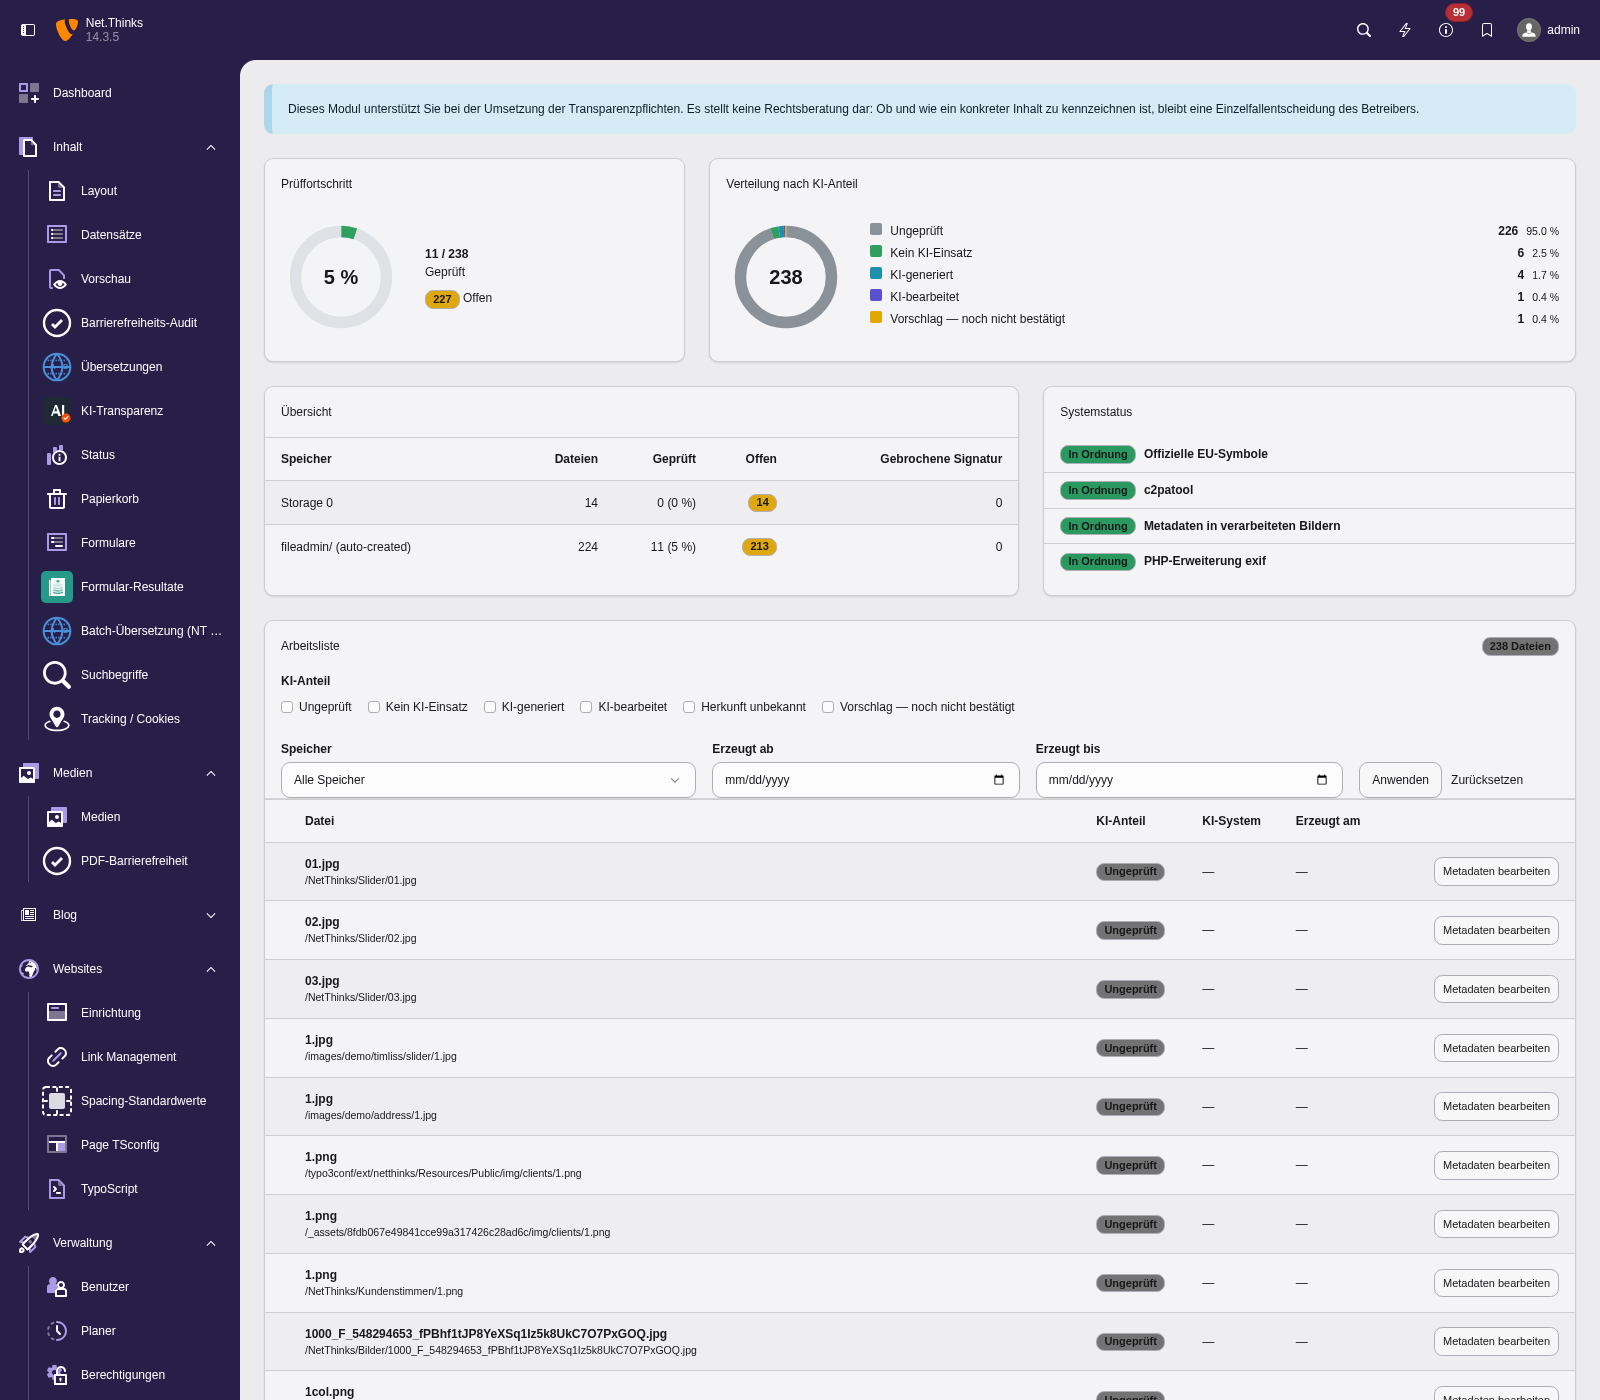
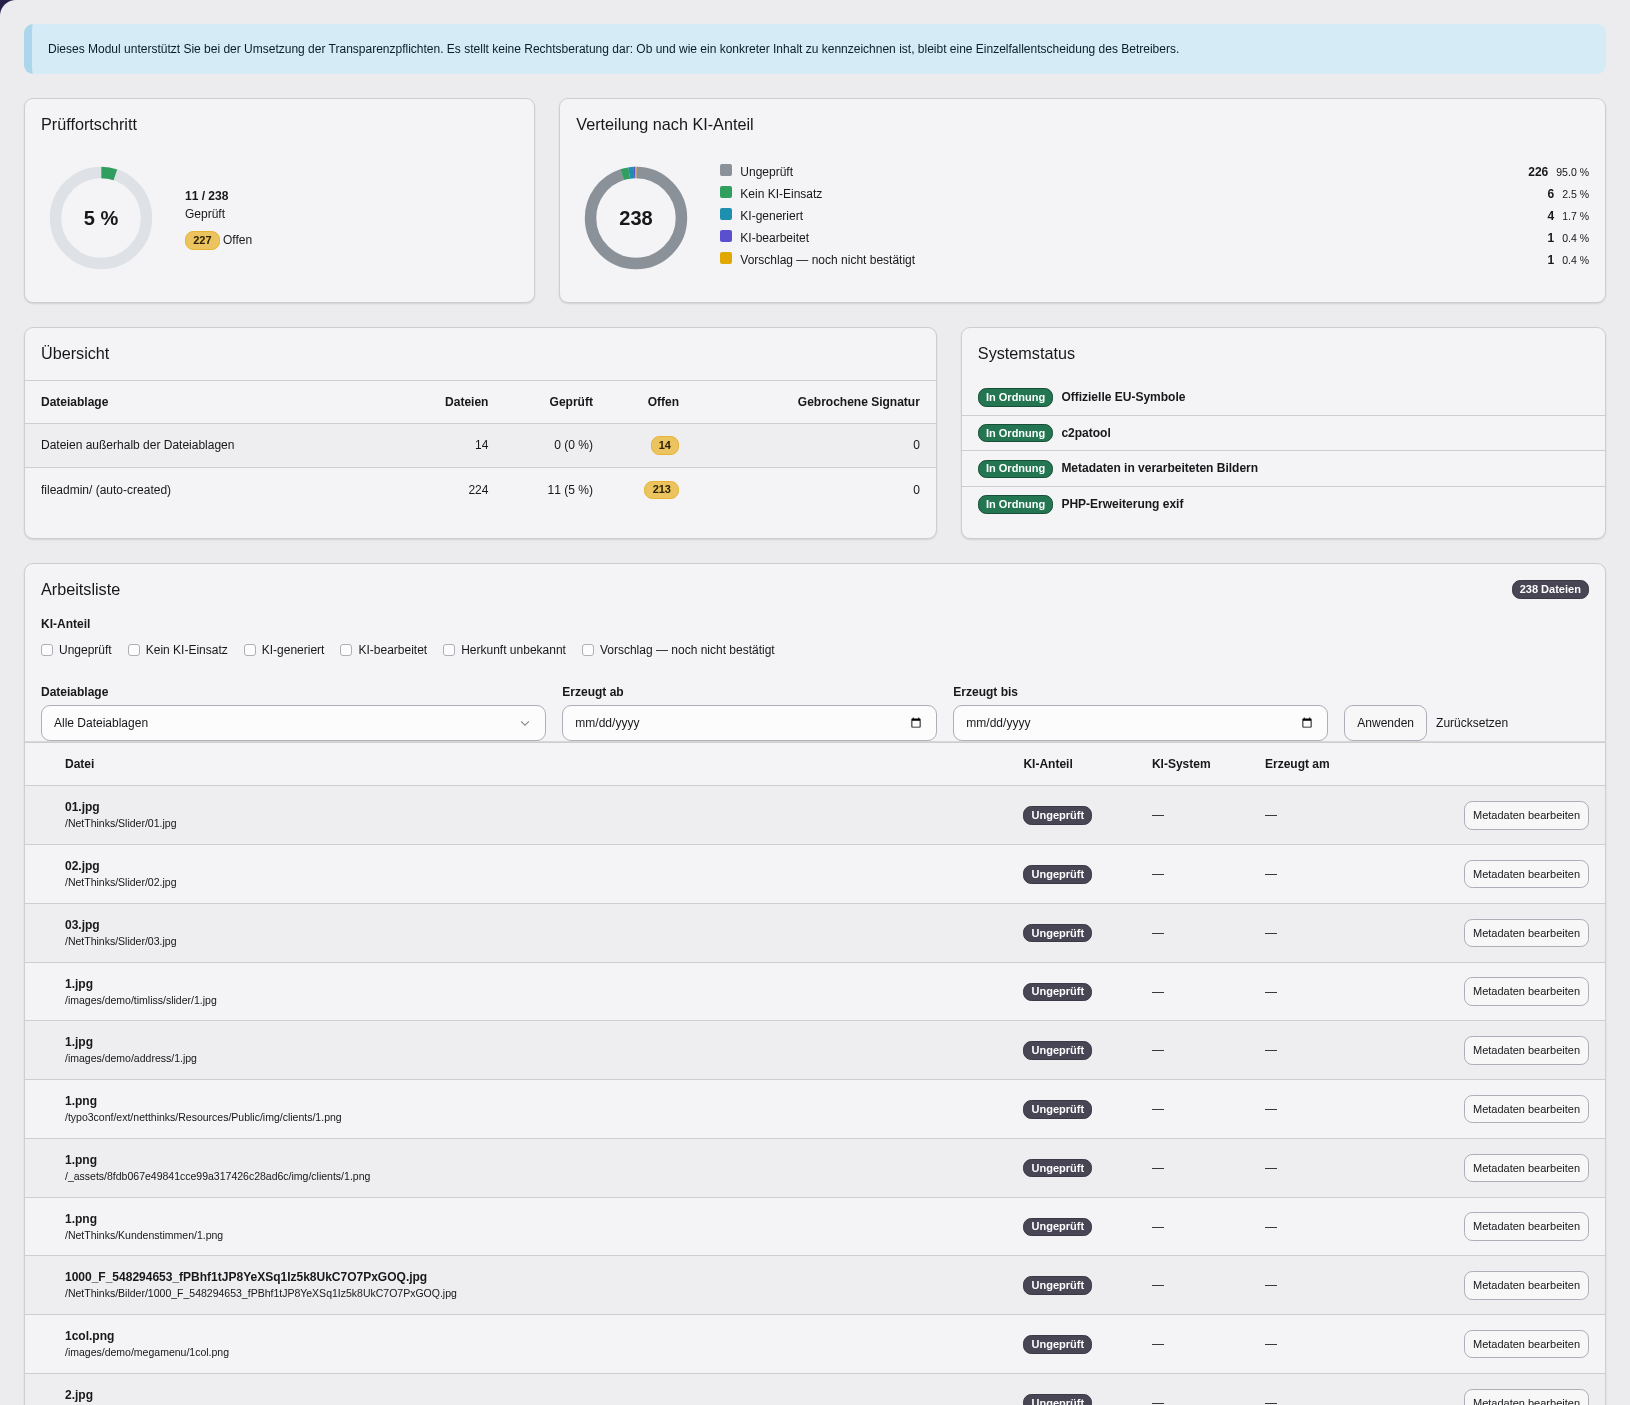
Backend-Modul: lesbare Plaketten, echte Ueberschriften, sprechende Speichernamen
- Plaketten nutzten Bootstraps bg-*-Helfer. Die faerben nur den Hintergrund
  und lassen --typo3-badge-color auf dem dunklen Standardwert stehen, also
  schwarze Schrift auf gruenem Grund. Ersetzt durch die Backend-eigenen
  badge-*-Varianten, die beides setzen und dem hellen wie dem dunklen
  Backend folgen. Gemessen: 5,5:1 (Erfolg), 9,1:1 (neutral), 9,4:1 (Warnung).
- Die Kartenueberschriften waren Fließtext im card-header und hoben sich
  nicht ab. Jetzt h2.card-title, wie im Backend ueblich.
- "Storage 0" heisst jetzt "Dateien ausserhalb der Dateiablagen" — das ist
  der Ort, an dem TYPO3 alles ablegt, was zu keiner eingerichteten
  Dateiablage gehoert. Unbenannte Ablagen heissen "Dateiablage <uid>".
  Dazu durchgaengig "Dateiablage" statt "Speicher" in der deutschen
  Uebersetzung.
- Screenshots in der Doku erneuert (Modul und Arbeitsliste).

diff --git a/Resources/Private/Templates/Backend/Index.html b/Resources/Private/Templates/Backend/Index.html
@@ -12,7 +12,9 @@
         <div class="row g-4 mb-4">
             <div class="col-xl-4">
                 <div class="card h-100">
-                    <div class="card-header"><f:translate key="{ll}chart.progress" /></div>
+                    <div class="card-header">
+                        <h2 class="card-title"><f:translate key="{ll}chart.progress" /></h2>
+                    </div>
                     <div class="card-body d-flex align-items-center gap-4">
                         <f:render section="Ring" arguments="{
                             segments: {0: {percent: totals.reviewedPercent, dashArray: '{totals.reviewedPercent} {totals.openPercent}', dashOffset: '25', colour: '#2f9e5f'}},
@@ -23,12 +25,12 @@
                             <div class="fs-5 fw-semibold">{totals.reviewed} / {totals.total}</div>
                             <div class="text-body-secondary"><f:translate key="{ll}overview.reviewed" /></div>
                             <div class="mt-2">
-                                <span class="badge bg-warning">{totals.open}</span>
+                                <span class="badge badge-warning">{totals.open}</span>
                                 <span class="text-body-secondary"><f:translate key="{ll}overview.open" /></span>
                             </div>
                             <f:if condition="{totals.brokenC2pa} > 0">
                                 <div class="mt-1">
-                                    <span class="badge bg-danger">{totals.brokenC2pa}</span>
+                                    <span class="badge badge-danger">{totals.brokenC2pa}</span>
                                     <span class="text-body-secondary"><f:translate key="{ll}overview.brokenC2pa" /></span>
                                 </div>
                             </f:if>
@@ -39,7 +41,9 @@
 
             <div class="col-xl-8">
                 <div class="card h-100">
-                    <div class="card-header"><f:translate key="{ll}chart.distribution" /></div>
+                    <div class="card-header">
+                        <h2 class="card-title"><f:translate key="{ll}chart.distribution" /></h2>
+                    </div>
                     <div class="card-body d-flex align-items-center gap-4 flex-wrap">
                         <f:render section="Ring" arguments="{
                             segments: segments,
@@ -67,7 +71,9 @@
     <div class="row g-4 mb-4">
         <div class="col-xl-7">
             <div class="card h-100">
-                <div class="card-header"><f:translate key="{ll}overview.heading" /></div>
+                <div class="card-header">
+                    <h2 class="card-title"><f:translate key="{ll}overview.heading" /></h2>
+                </div>
                 <f:if condition="{summaries}">
                     <f:then>
                         <div class="table-fit mb-0">
@@ -92,13 +98,13 @@
                                             </td>
                                             <td class="text-end">
                                                 <f:if condition="{summary.open} > 0">
-                                                    <f:then><span class="badge bg-warning">{summary.open}</span></f:then>
+                                                    <f:then><span class="badge badge-warning">{summary.open}</span></f:then>
                                                     <f:else><span class="text-body-secondary">0</span></f:else>
                                                 </f:if>
                                             </td>
                                             <td class="text-end">
                                                 <f:if condition="{summary.brokenC2pa} > 0">
-                                                    <f:then><span class="badge bg-danger">{summary.brokenC2pa}</span></f:then>
+                                                    <f:then><span class="badge badge-danger">{summary.brokenC2pa}</span></f:then>
                                                     <f:else><span class="text-body-secondary">0</span></f:else>
                                                 </f:if>
                                             </td>
@@ -117,16 +123,18 @@
 
         <div class="col-xl-5">
             <div class="card h-100">
-                <div class="card-header"><f:translate key="{ll}status.heading" /></div>
+                <div class="card-header">
+                    <h2 class="card-title"><f:translate key="{ll}status.heading" /></h2>
+                </div>
                 <ul class="list-group list-group-flush">
                     <f:for each="{findings}" as="finding">
                         <li class="list-group-item d-flex gap-2 align-items-baseline">
                             <f:if condition="{finding.severity} == 'ok'">
                                 <f:then>
-                                    <span class="badge bg-success flex-shrink-0"><f:translate key="{ll}status.ok" /></span>
+                                    <span class="badge badge-success flex-shrink-0"><f:translate key="{ll}status.ok" /></span>
                                 </f:then>
                                 <f:else>
-                                    <span class="badge bg-warning flex-shrink-0">!</span>
+                                    <span class="badge badge-warning flex-shrink-0">!</span>
                                 </f:else>
                             </f:if>
                             <span>
@@ -147,8 +155,8 @@
 
     <div class="card">
         <div class="card-header d-flex justify-content-between align-items-center gap-3 flex-wrap">
-            <span><f:translate key="{ll}list.heading" /></span>
-            <span class="badge bg-secondary"><f:translate key="{ll}list.count" arguments="{0: total}" /></span>
+            <h2 class="card-title"><f:translate key="{ll}list.heading" /></h2>
+            <span class="badge badge-secondary"><f:translate key="{ll}list.count" arguments="{0: total}" /></span>
         </div>
 
         <div class="card-body border-bottom">

diff --git a/Classes/Domain/Repository/TransparencyRepository.php b/Classes/Domain/Repository/TransparencyRepository.php
@@ -11,6 +11,8 @@ use NetThinks\NtAimark\Service\ExtensionSettings;
 use TYPO3\CMS\Core\Database\Connection;
 use TYPO3\CMS\Core\Database\ConnectionPool;
 use TYPO3\CMS\Core\Database\Query\QueryBuilder;
+use TYPO3\CMS\Core\Localization\LanguageService;
+use TYPO3\CMS\Core\Localization\LanguageServiceFactory;
 
 /**
  * Reads the state of the review for the backend module.
@@ -38,9 +40,12 @@ final readonly class TransparencyRepository
      */
     private const ORIGINAL_EXTENSIONS = ['jpg', 'jpeg', 'png', 'gif', 'tif', 'tiff'];
 
+    private const LL = 'LLL:EXT:nt_aimark/Resources/Private/Language/locallang_mod.xlf:';
+
     public function __construct(
         private ConnectionPool $connectionPool,
         private ExtensionSettings $settings,
+        private LanguageServiceFactory $languageServiceFactory,
     ) {}
 
     /**
@@ -134,7 +139,7 @@ final readonly class TransparencyRepository
             $storageUid = (int) $row['storage'];
             $summaries[] = new StorageSummary(
                 storageUid: $storageUid,
-                storageName: $names[$storageUid] ?? sprintf('Storage %d', $storageUid),
+                storageName: $this->storageLabel($storageUid, $names[$storageUid] ?? ''),
                 total: (int) $row['total'],
                 unreviewed: (int) $row['unreviewed'],
                 suggested: (int) $row['suggested'],
@@ -402,6 +407,40 @@ final readonly class TransparencyRepository
         }
 
         return $queryBuilder;
+    }
+
+    /**
+     * A name an operator recognises.
+     *
+     * Storage 0 has no record in `sys_file_storage`: it is where TYPO3 files
+     * everything that lies outside a configured storage. "Storage 0" says
+     * nothing to whoever has to act on the row, so it is named by what it
+     * holds. Named storages keep their own name.
+     */
+    private function storageLabel(int $storageUid, string $name): string
+    {
+        if ($name !== '') {
+            return $name;
+        }
+
+        $language = $this->language();
+
+        if ($storageUid === 0) {
+            return $language->sL(self::LL . 'storage.fallback');
+        }
+
+        return sprintf($language->sL(self::LL . 'storage.unnamed'), $storageUid);
+    }
+
+    private function language(): LanguageService
+    {
+        // Runs in the module as well as on the CLI, where there is no backend
+        // user to take a language from.
+        $backendUser = $GLOBALS['BE_USER'] ?? null;
+
+        return $backendUser instanceof \TYPO3\CMS\Core\Authentication\AbstractUserAuthentication
+            ? $this->languageServiceFactory->createFromUserPreferences($backendUser)
+            : $this->languageServiceFactory->create('default');
     }
 
     /**

diff --git a/Classes/Domain/Enum/AiStatus.php b/Classes/Domain/Enum/AiStatus.php
@@ -48,20 +48,25 @@ enum AiStatus: int
     }
 
     /**
-     * Bootstrap contextual class for the badge in the backend list.
+     * Badge variant for the backend list.
      *
      * The distinction the colour carries is "does this still need someone" —
      * not "is AI involved". A confirmed AI use is a finished, correct state
      * and is not coloured as a problem.
+     *
+     * These are the backend's own badge variants, not Bootstrap's `bg-*`
+     * helpers: `bg-*` paints the background and leaves `--typo3-badge-color`
+     * at the default dark foreground, which put black lettering on green. The
+     * `badge-*` variants set both, and they follow the light and dark backend.
      */
     public function badgeClass(): string
     {
         return match ($this) {
-            self::Unreviewed => 'bg-secondary',
-            self::Suggested => 'bg-warning',
-            self::NoAi => 'bg-success',
-            self::Generated, self::Modified => 'bg-info',
-            self::UnknownOrigin => 'bg-light text-dark',
+            self::Unreviewed => 'badge-secondary',
+            self::Suggested => 'badge-warning',
+            self::NoAi => 'badge-success',
+            self::Generated, self::Modified => 'badge-info',
+            self::UnknownOrigin => 'badge-default',
         };
     }
 

diff --git a/CHANGELOG.md b/CHANGELOG.md
@@ -138,6 +138,18 @@ als stabil.
   Extension nur Textlabel. Herkunft und Nutzungsbedingungen stehen in
   `Resources/Public/Icons/Eu/README.md`. Die Dateien sind unveränderte
   Originale, lediglich nach einem einheitlichen Schema benannt.
+- **Backend-Modul lesbarer.** Die Plaketten verwendeten Bootstraps `bg-*`,
+  das nur den Hintergrund faerbt und die Schriftfarbe auf dem dunklen
+  Standardwert laesst — schwarze Schrift auf Gruen. Jetzt die
+  Backend-eigenen `badge-*`-Varianten, die Vorder- und Hintergrund gemeinsam
+  setzen und dem hellen wie dem dunklen Backend folgen (gemessen 5,5:1 bis
+  9,4:1 statt darunter). Die Kartenueberschriften sind echte Ueberschriften
+  mit `card-title` statt Fließtext.
+- **Speicher heissen jetzt nach ihrem Inhalt.** „Storage 0" ist der Ort, an
+  dem TYPO3 alles ablegt, was ausserhalb einer eingerichteten Dateiablage
+  liegt — der Name sagte niemandem etwas, der die Zeile abarbeiten soll. Er
+  heisst jetzt „Dateien ausserhalb der Dateiablagen"; unbenannte Ablagen
+  heissen „Dateiablage <uid>".
 
 ### Bekannte Einschränkungen
 

diff --git a/docs/changelog.de.md b/docs/changelog.de.md
@@ -138,6 +138,18 @@ als stabil.
   Extension nur Textlabel. Herkunft und Nutzungsbedingungen stehen in
   `Resources/Public/Icons/Eu/README.md`. Die Dateien sind unveränderte
   Originale, lediglich nach einem einheitlichen Schema benannt.
+- **Backend-Modul lesbarer.** Die Plaketten verwendeten Bootstraps `bg-*`,
+  das nur den Hintergrund faerbt und die Schriftfarbe auf dem dunklen
+  Standardwert laesst — schwarze Schrift auf Gruen. Jetzt die
+  Backend-eigenen `badge-*`-Varianten, die Vorder- und Hintergrund gemeinsam
+  setzen und dem hellen wie dem dunklen Backend folgen (gemessen 5,5:1 bis
+  9,4:1 statt darunter). Die Kartenueberschriften sind echte Ueberschriften
+  mit `card-title` statt Fließtext.
+- **Speicher heissen jetzt nach ihrem Inhalt.** „Storage 0" ist der Ort, an
+  dem TYPO3 alles ablegt, was ausserhalb einer eingerichteten Dateiablage
+  liegt — der Name sagte niemandem etwas, der die Zeile abarbeiten soll. Er
+  heisst jetzt „Dateien ausserhalb der Dateiablagen"; unbenannte Ablagen
+  heissen „Dateiablage <uid>".
 
 ### Bekannte Einschränkungen
 

diff --git a/docs/changelog.en.md b/docs/changelog.en.md
@@ -138,6 +138,18 @@ als stabil.
   Extension nur Textlabel. Herkunft und Nutzungsbedingungen stehen in
   `Resources/Public/Icons/Eu/README.md`. Die Dateien sind unveränderte
   Originale, lediglich nach einem einheitlichen Schema benannt.
+- **Backend-Modul lesbarer.** Die Plaketten verwendeten Bootstraps `bg-*`,
+  das nur den Hintergrund faerbt und die Schriftfarbe auf dem dunklen
+  Standardwert laesst — schwarze Schrift auf Gruen. Jetzt die
+  Backend-eigenen `badge-*`-Varianten, die Vorder- und Hintergrund gemeinsam
+  setzen und dem hellen wie dem dunklen Backend folgen (gemessen 5,5:1 bis
+  9,4:1 statt darunter). Die Kartenueberschriften sind echte Ueberschriften
+  mit `card-title` statt Fließtext.
+- **Speicher heissen jetzt nach ihrem Inhalt.** „Storage 0" ist der Ort, an
+  dem TYPO3 alles ablegt, was ausserhalb einer eingerichteten Dateiablage
+  liegt — der Name sagte niemandem etwas, der die Zeile abarbeiten soll. Er
+  heisst jetzt „Dateien ausserhalb der Dateiablagen"; unbenannte Ablagen
+  heissen „Dateiablage <uid>".
 
 ### Bekannte Einschränkungen
 
